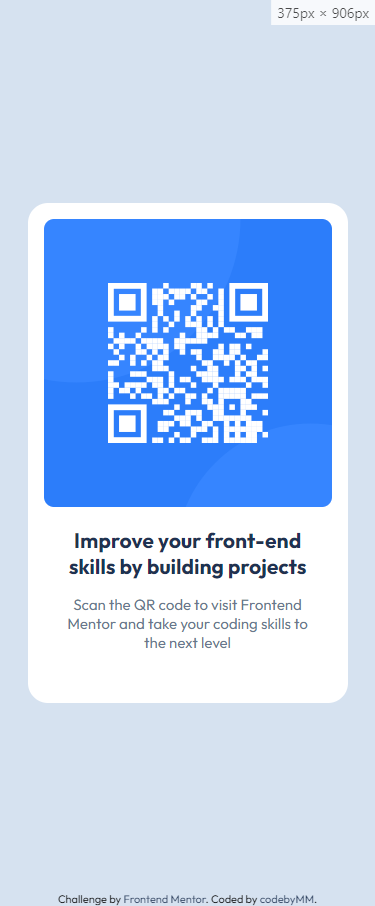
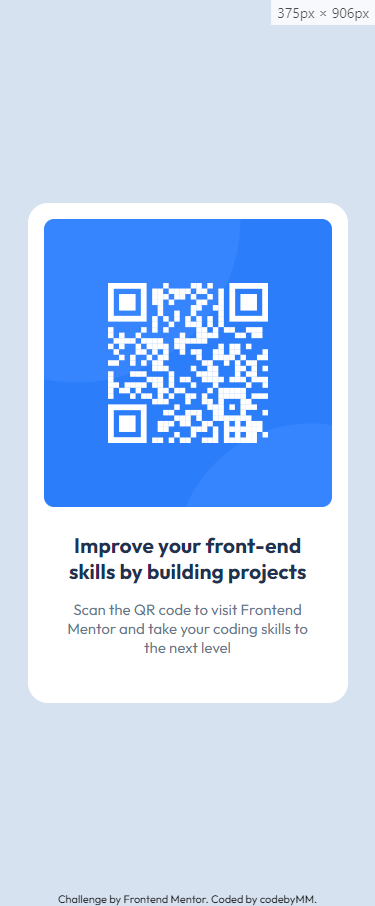
update readme

Changed region(s): [[0.176, 0.5872, 0.8213, 0.7417], [0.3227, 0.989, 0.5573, 1.0], [0.704, 0.989, 0.8507, 1.0]]

diff --git a/styles.css b/styles.css
@@ -31,9 +31,6 @@ footer {
     font-size: 11px; 
     text-align: center; 
 }
-.attribution a { 
-    color: var(--slate900); 
-}
 /*--------------------- BODY ---------------------*/
 body {
     font-family: var(--outfit);
@@ -58,7 +55,7 @@ body {
     font-size: 1.4em;
     color: var(--slate900);
     max-width: 256px;
-    padding: 1rem 0 1rem;
+    padding: 1.3rem 0 1rem;
     font-weight: var(--fw-700);
 }
 .qr-container p {

diff --git a/README.md b/README.md
@@ -12,8 +12,10 @@ This is a solution to the [QR code component challenge on Frontend Mentor](https
 ## Overview
 
 ### Screenshot
-
+- Desktop Version (1440px)
 ![Desktop Version (1440px)](images/screenshots.png)
+
+- Mobile Version (375px)
 ![Mobile Version (375px)](images/screenshotsMobile.png)
 
 ### Links
